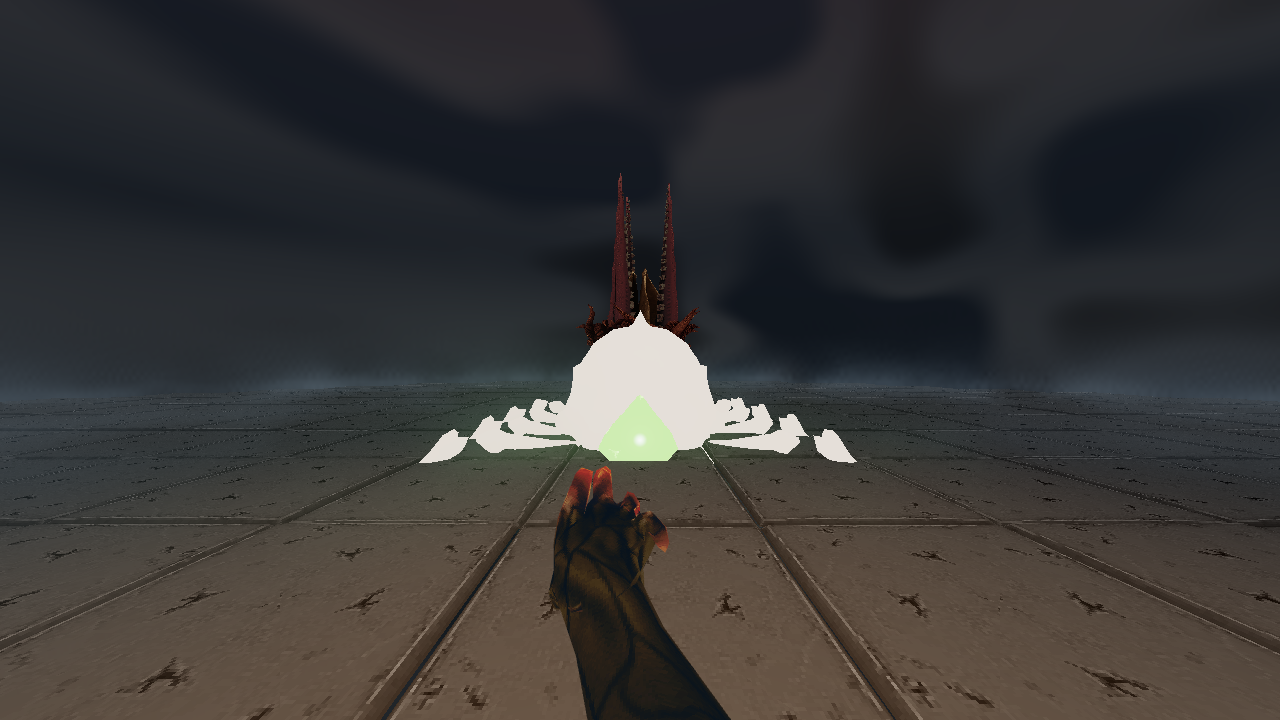
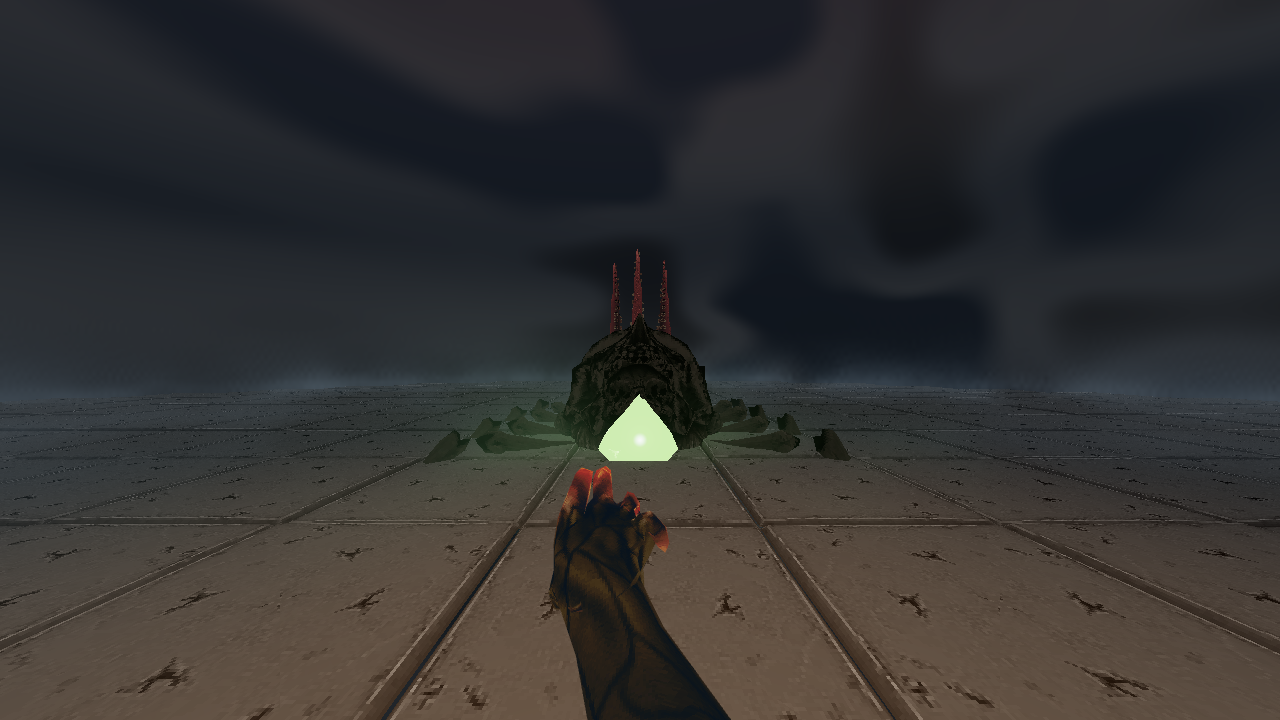
Make enemy hit feedback subtle and exclude crystal-based enemies

Changed region(s): [[0.3125, 0.275, 0.6875, 0.6417]]

diff --git a/src/enemy-hit-flash.ts b/src/enemy-hit-flash.ts
@@ -1,16 +1,16 @@
 import * as THREE from 'three';
 import type {Enemy} from './simulation';
-import {isSquid} from './enemy-kinds';
+import {isSquid,isSpider,isPede} from './enemy-kinds';
 
-/** Two short pulses, driven by damage time so pause, replay and network agree. */
+/** One short pulse, driven by damage time so pause, replay and network agree. */
 export function enemyHitFlash(enemy:Enemy,time:number){
  const elapsed=time-enemy.lastHit;
- return !isSquid(enemy.kind)&&enemy.hp>0&&elapsed>=0&&(elapsed<.065||elapsed>=.095&&elapsed<.15);
+ return !isSquid(enemy.kind)&&!isSpider(enemy.kind)&&!isPede(enemy.kind)&&enemy.kind!=='leviathan'&&enemy.hp>0&&elapsed>=0&&elapsed<.05;
 }
 
 /** Shared materials and cached mesh lists keep feedback independent of population. */
 export class EnemyHitFlash {
- private material=new THREE.MeshBasicMaterial({color:0xffead6,side:THREE.DoubleSide,toneMapped:false});
+ private hitMaterials=new WeakMap<THREE.Material,THREE.Material>();
  private meshes=new WeakMap<THREE.Group,THREE.Mesh[]>();
  private originals=new WeakMap<THREE.Mesh,THREE.Material|THREE.Material[]>();
  private swarmMaterials=new WeakMap<THREE.Material,THREE.Material>();
@@ -25,7 +25,18 @@ export class EnemyHitFlash {
    // Preserve the distinct colors and existing feedback of attached crystals.
    if(node instanceof THREE.Mesh&&!node.name.includes('weak-point')&&node.name!=='spider-held-gem')meshes!.push(node);
   });this.meshes.set(model,meshes);}
-  for(const mesh of meshes){this.originals.set(mesh,mesh.material);mesh.material=this.material;}
+  for(const mesh of meshes){this.originals.set(mesh,mesh.material);mesh.material=Array.isArray(mesh.material)?mesh.material.map(material=>this.hitMaterial(material)):this.hitMaterial(mesh.material);}
+ }
+ private hitMaterial(source:THREE.Material){
+  let material=this.hitMaterials.get(source);if(material)return material;
+  material=source.clone();const compile=source.onBeforeCompile,key=source.customProgramCacheKey();
+  material.onBeforeCompile=(shader,renderer)=>{
+   compile.call(source,shader,renderer);
+   // A small brightness lift preserves texture, shading, and the enemy's color.
+   shader.fragmentShader=shader.fragmentShader.replace(/}\s*$/, 'gl_FragColor.rgb*=1.04;\n}');
+  };
+  material.customProgramCacheKey=()=>key+'-subtle-hit-flash';
+  this.hitMaterials.set(source,material);return material;
  }
  swarmMaterial(source:THREE.Material){
   let material=this.swarmMaterials.get(source);if(material)return material;
@@ -35,11 +46,11 @@ export class EnemyHitFlash {
    // Instance color carries a flash flag, rather than tinting dark texture pixels.
    shader.fragmentShader=shader.fragmentShader.replace('#include <color_fragment>','')
     .replace('#include <opaque_fragment>',`#ifdef USE_COLOR
-outgoingLight=mix(outgoingLight,vec3(1.,.82,.67),vColor.r);
+outgoingLight*=1.+.04*vColor.r;
 #endif
 #include <opaque_fragment>`);
   };
-  material.customProgramCacheKey=()=>key+'-enemy-hit-flash';
+  material.customProgramCacheKey=()=>key+'-subtle-enemy-hit-flash';
   this.swarmMaterials.set(source,material);this.swarmMaterials.set(material,material);return material;
  }
 }
